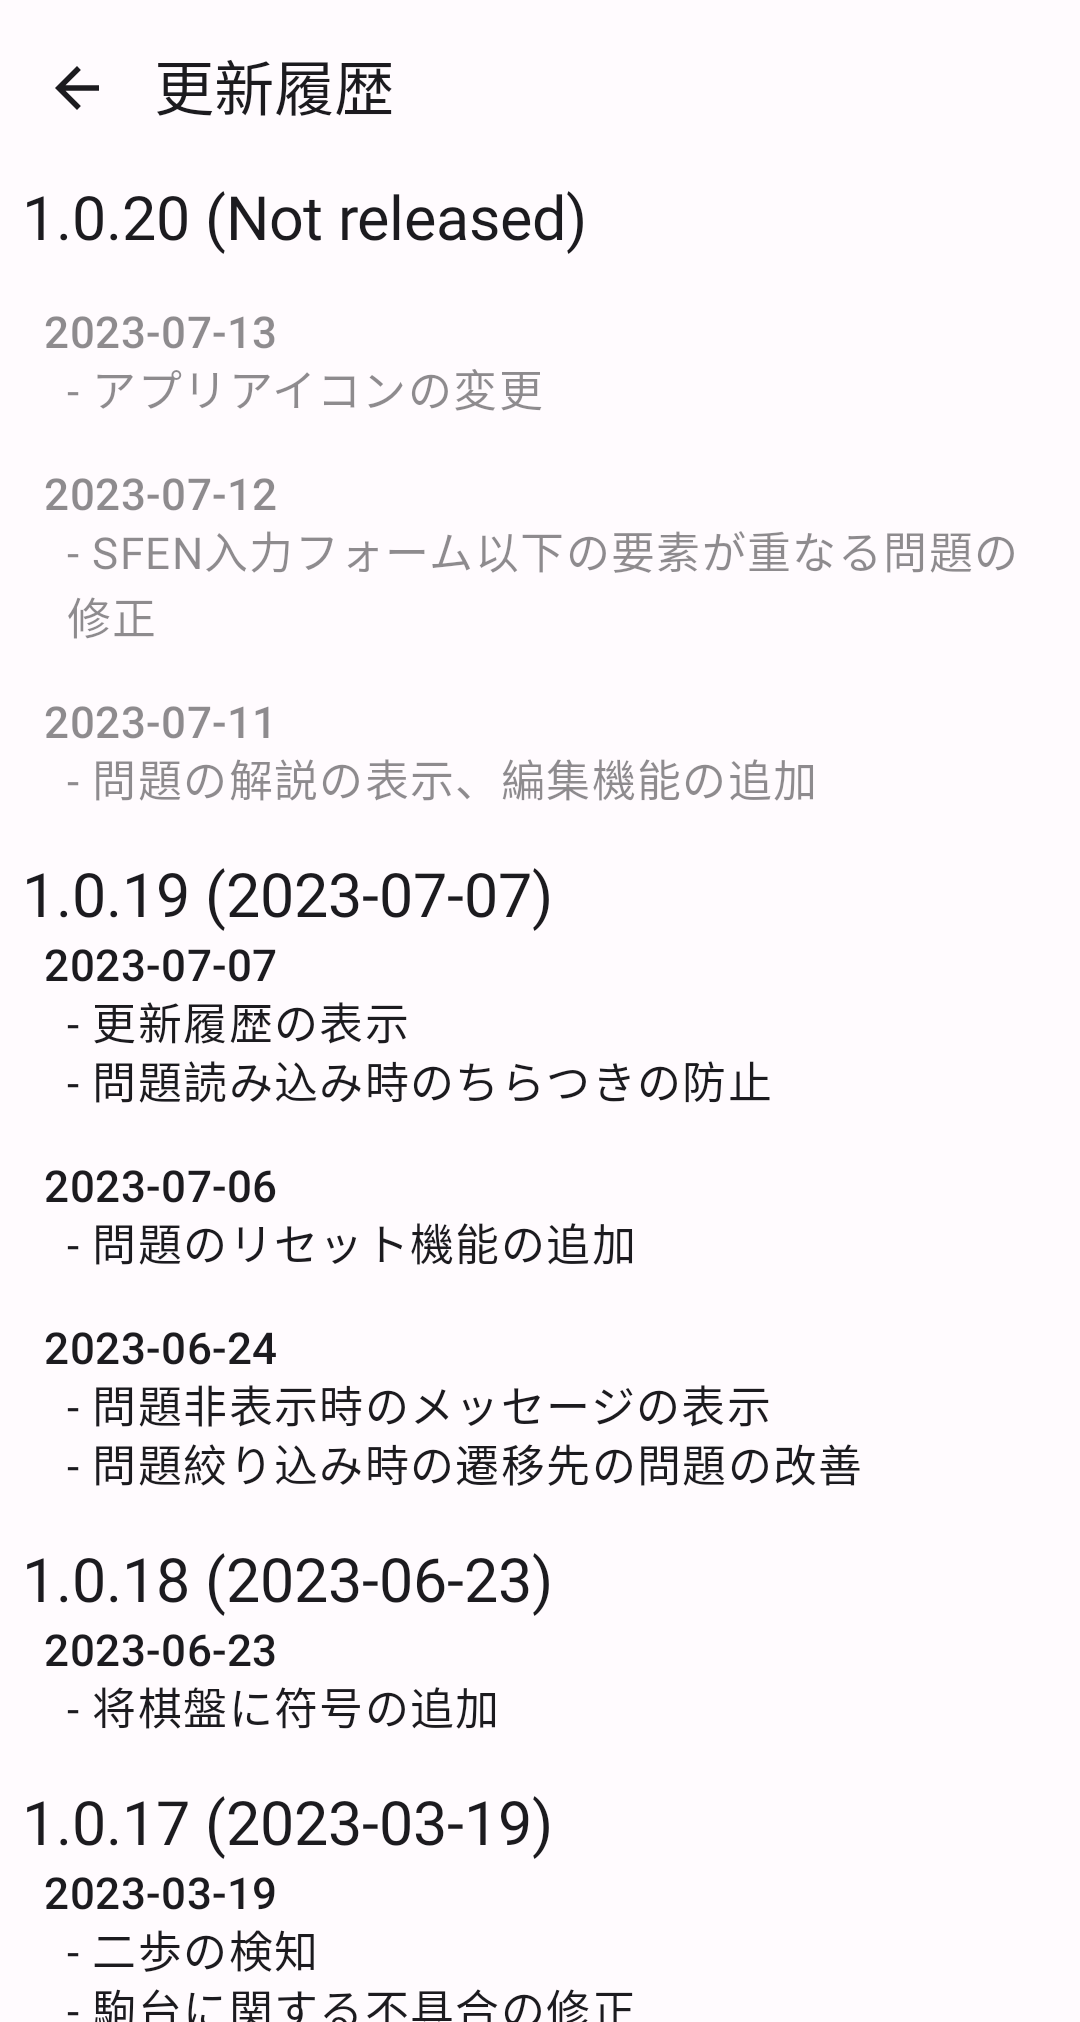
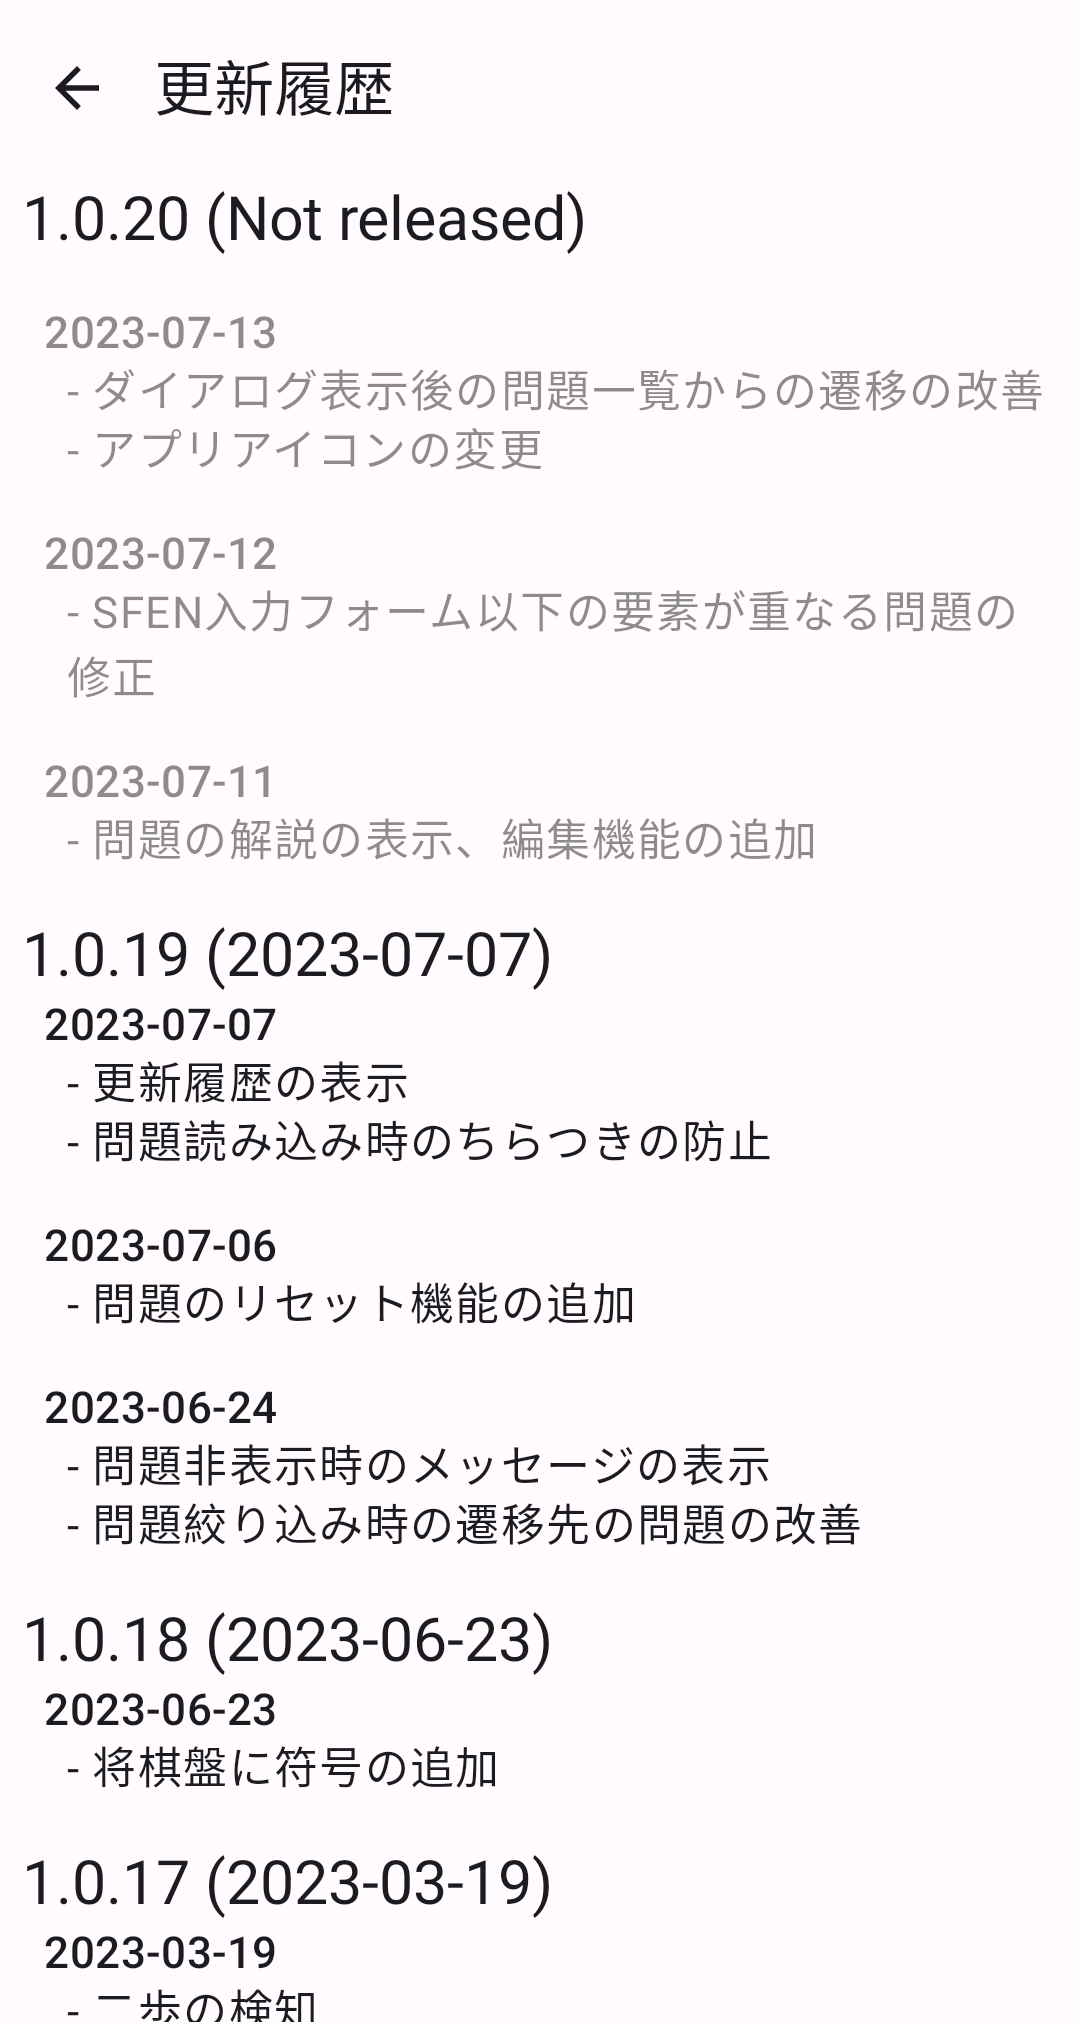
improve navigation

Changed region(s): [[0.0306, 0.1869, 0.9472, 1.0], [0.5806, 0.1869, 0.9778, 0.2181], [0.3361, 0.2804, 0.3667, 0.3116]]

diff --git a/app/src/main/java/jp/kawagh/kiando/App.kt b/app/src/main/java/jp/kawagh/kiando/App.kt
@@ -117,11 +117,11 @@ fun App(
                     val favoriteIndex = TabItem.values().indexOf(TabItem.Favorite)
                     val containAppliedFilter: (List<Tag>) -> Boolean = { tags ->
                         appliedFilterName.isEmpty() ||
-                            tags.map { tag -> tag.title }.contains(appliedFilterName)
+                                tags.map { tag -> tag.title }.contains(appliedFilterName)
                     }
                     val questionsWithTags = uiState.questionsWithTags.filter { qts ->
                         (fromTabIndex != favoriteIndex || qts.question.isFavorite) &&
-                            containAppliedFilter(qts.tags)
+                                containAppliedFilter(qts.tags)
                     }
                     val nextQuestion = questionsWithTags
                         .find { q ->
@@ -171,14 +171,20 @@ fun App(
 
                 dialog("delete") {
                     AlertDialog(
-                        onDismissRequest = { navController.navigate("list") },
+                        onDismissRequest = {
+                            navController.navigate("list") {
+                                popUpTo("list") { inclusive = true }
+                            }
+                        },
                         title = { Text(text = stringResource(R.string.dialog_title_delete_all_questions)) },
                         text = { Text(text = stringResource(R.string.dialog_text_delete_all_questions)) },
                         confirmButton = {
                             Button(
                                 onClick = {
                                     questionsViewModel.deleteAllQuestions()
-                                    navController.navigate("list")
+                                    navController.navigate("list") {
+                                        popUpTo("list") { inclusive = true }
+                                    }
                                 },
                                 colors = ButtonDefaults.buttonColors(
                                     containerColor = Color.Red
@@ -188,7 +194,11 @@ fun App(
                             }
                         },
                         dismissButton = {
-                            TextButton(onClick = { navController.navigate("list") }) {
+                            TextButton(onClick = {
+                                navController.navigate("list") {
+                                    popUpTo("list") { inclusive = true }
+                                }
+                            }) {
                                 Text(text = stringResource(R.string.dialog_text_cancel))
                             }
                         }
@@ -205,7 +215,11 @@ fun App(
                 ) {
                     val deleteId = it.arguments?.getInt("questionId") ?: -1
                     AlertDialog(
-                        onDismissRequest = { navController.navigate("list") },
+                        onDismissRequest = {
+                            navController.navigate("list") {
+                                popUpTo("list") { inclusive = true }
+                            }
+                        },
                         title = { Text(text = stringResource(R.string.dialog_title_delete_question)) },
                         text = { Text(text = stringResource(R.string.dialog_text_delete_question)) },
                         confirmButton = {
@@ -222,7 +236,11 @@ fun App(
                             }
                         },
                         dismissButton = {
-                            TextButton(onClick = { navController.navigate("list") }) {
+                            TextButton(onClick = {
+                                navController.navigate("list") {
+                                    popUpTo("list") { inclusive = true }
+                                }
+                            }) {
                                 Text(text = stringResource(R.string.dialog_text_cancel))
                             }
                         }
@@ -243,7 +261,11 @@ fun App(
                     val renameId = it.arguments?.getInt("questionId") ?: -1
                     val focusRequester = remember { FocusRequester() }
                     AlertDialog(
-                        onDismissRequest = { navController.navigate("list") },
+                        onDismissRequest = {
+                            navController.navigate("list") {
+                                popUpTo("list") { inclusive = true }
+                            }
+                        },
                         title = { Text(text = stringResource(R.string.dialog_title_rename_question)) },
                         text = {
                             OutlinedTextField(
@@ -265,7 +287,9 @@ fun App(
                                         questionId = renameId,
                                         newTitle = renameTextInput
                                     )
-                                    navController.navigate("list")
+                                    navController.navigate("list") {
+                                        popUpTo("list") { inclusive = true }
+                                    }
                                 },
                                 enabled = renameTextInput.isNotEmpty()
                             ) {
@@ -289,7 +313,11 @@ fun App(
                     val renameId = it.arguments?.getInt("tagId") ?: -1
                     val focusRequester = remember { FocusRequester() }
                     AlertDialog(
-                        onDismissRequest = { navController.navigate("list") },
+                        onDismissRequest = {
+                            navController.navigate("list") {
+                                popUpTo("list") { inclusive = true }
+                            }
+                        },
                         title = { Text(text = stringResource(R.string.dialog_title_rename_tag)) },
                         text = {
                             OutlinedTextField(
@@ -311,7 +339,9 @@ fun App(
                                         tagId = renameId,
                                         newTitle = renameTextInput
                                     )
-                                    navController.navigate("list")
+                                    navController.navigate("list") {
+                                        popUpTo("list") { inclusive = true }
+                                    }
                                 },
                                 enabled = renameTextInput.isNotEmpty()
                             ) {

diff --git a/app/src/main/java/jp/kawagh/kiando/ui/screens/ChangeLogScreen.kt b/app/src/main/java/jp/kawagh/kiando/ui/screens/ChangeLogScreen.kt
@@ -35,6 +35,7 @@ object ChangeLogs {
     // want to manage only data or `CHANGELOG.md`
     val data: List<BaseChangeLog> =
         listOf(
+            ChangeLog(title = "ダイアログ表示後の問題一覧からの遷移の改善", date = LocalDate.of(2023, 7, 13)),
             ChangeLog(title = "アプリアイコンの変更", date = LocalDate.of(2023, 7, 13)),
             ChangeLog(title = "SFEN入力フォーム以下の要素が重なる問題の修正", date = LocalDate.of(2023, 7, 12)),
             ChangeLog(title = "問題の解説の表示、編集機能の追加", date = LocalDate.of(2023, 7, 11)),
